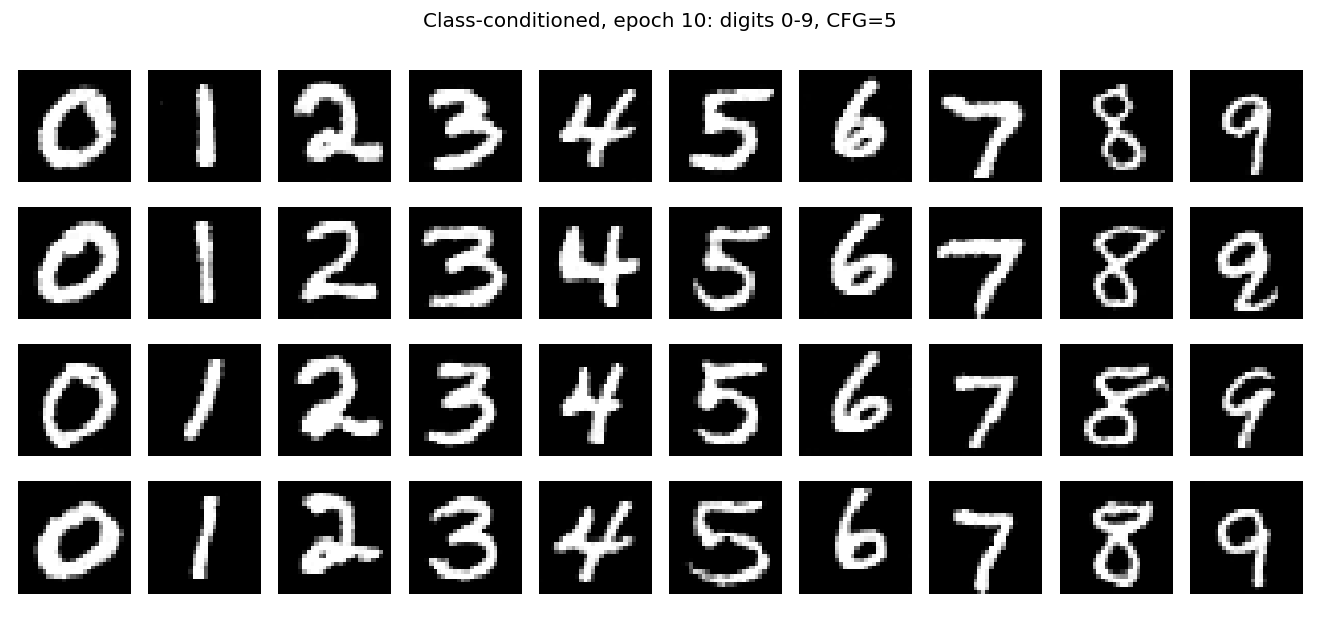
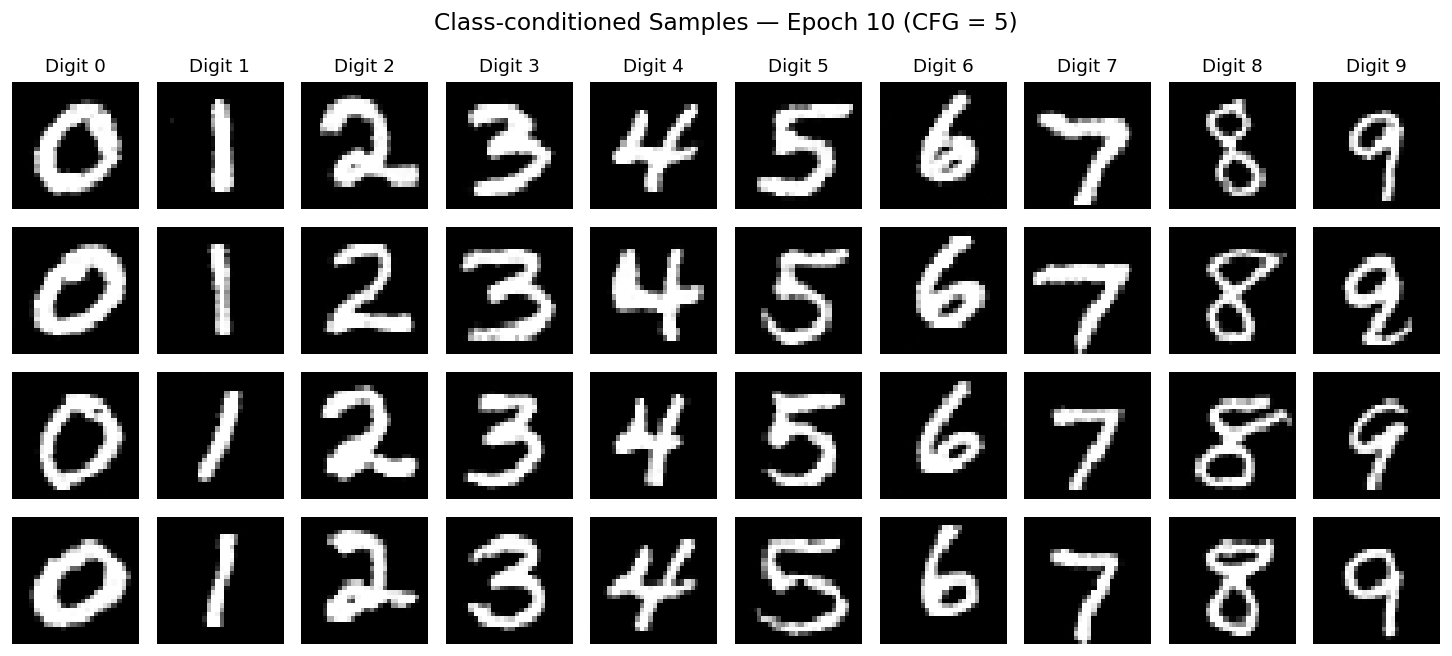
Label Part B sample figures and separate pure-noise epochs

diff --git a/website/scripts/extract_partb_results.py b/website/scripts/extract_partb_results.py
@@ -1,7 +1,7 @@
 """Export saved Part B figures and provenance without executing the notebook.
 
-Run with Python + Pillow + NumPy from the repository root. Keep the original
-plot in a lossless WebP; remove only titles/margins from sample-grid views.
+Run with Python + Pillow from the repository root. Export complete lossless
+figures so titles, row labels, and column labels remain visible.
 Part A's extraction script, figures, and manifest are independent.
 """
 import base64
@@ -11,7 +11,6 @@ import json
 from html import escape
 from pathlib import Path
 
-import numpy as np
 from PIL import Image
 
 ROOT = Path(__file__).resolve().parents[2]
@@ -22,23 +21,24 @@ FIGURES = ROOT / "website/_figures/partb"
 # Zero-based cell/output indices in the provided, executed notebook.
 # Titles and explicit PNG checks make a changed cell layout fail visibly.
 SPECS = [
-    ("noise-levels", 14, 0, "Noise levels by row", "Noise levels by row, top to bottom: σ = 0.0, 0.2, 0.4, 0.5, 0.6, 0.8, 1.0. Each column reuses the same test digit and noise tensor.", True),
-    ("denoise-loss", 21, 0, "loss_plot(train_losses", "Single-step denoising training MSE over all five epochs. Faint line: every optimizer step; solid line: 100-step moving average.", False),
-    ("denoise-epoch1", 21, 1, "denoise, epoch", "Epoch 1 · σ = 0.5 · Rows: clean test digits / noisy inputs / predictions.", True),
-    ("denoise-epoch5", 21, 2, "denoise, epoch", "Epoch 5 · σ = 0.5 · Rows: clean test digits / the same noisy inputs / predictions.", True),
-    ("denoise-ood", 23, 0, "sigma by column", "Same test digit at every noise level. Columns: σ = 0.0, 0.2, 0.4, 0.5, 0.6, 0.8, 1.0. Rows: noisy input / prediction.", True),
-    ("pure-noise-loss", 25, 0, "loss_plot(pure_losses", "Pure-noise denoiser training MSE over five epochs. Faint line: every optimizer step; solid line: 100-step moving average.", False),
-    ("pure-noise-samples", 25, 1, "Pure-noise predictions", "Pure-noise predictions · Top row: epoch 1; bottom row: epoch 5. Both checkpoints use the same ten noise inputs.", True),
-    ("time-loss", 35, 1, "loss_plot(time_losses", "Time-conditioned flow training MSE over ten epochs. Faint line: every optimizer step; solid line: 100-step moving average.", False),
-    ("time-epoch1", 37, 0, "Time-conditioned flow matching", "Epoch 1 · Time conditioning only · 40 samples · 50 Euler steps · Seed 180.", True),
-    ("time-epoch5", 37, 1, "Time-conditioned flow matching", "Epoch 5 · Time conditioning only · Same 40 initial noise samples and 50 Euler steps.", True),
-    ("time-epoch10", 37, 2, "Time-conditioned flow matching", "Epoch 10 · Time conditioning only · Same 40 initial noise samples and 50 Euler steps.", True),
-    ("class-loss", 44, 1, "loss_plot(class_losses", "Class-conditioned flow training MSE over ten epochs. Faint line: every optimizer step; solid line: 100-step moving average.", False),
-    ("no-scheduler-loss", 44, 3, "loss_plot(no_scheduler_losses", "Class-conditioned training without a scheduler · Constant Adam learning rate 0.003 · Ten epochs.", False),
-    ("class-epoch1", 46, 0, "Class-conditioned, epoch", "Epoch 1 · Columns: requested digits 0–9; four instances per digit · CFG γ = 5 · 300 Euler steps · Seed 180.", True),
-    ("class-epoch5", 46, 1, "Class-conditioned, epoch", "Epoch 5 · Columns: requested digits 0–9; four instances per digit · Same noise, CFG, and Euler steps.", True),
-    ("class-epoch10", 46, 2, "Class-conditioned, epoch", "Epoch 10 · Columns: requested digits 0–9; four instances per digit · Same noise, CFG, and Euler steps.", True),
-    ("no-scheduler-epoch10", 46, 3, "No scheduler, epoch 10", "No scheduler · Epoch 10 · Constant learning rate 0.003 · Columns: digits 0–9; four instances per digit · CFG γ = 5.", True),
+    ("noise-levels", 14, 0, "MNIST at Different Noise Levels", "Noise levels by row, top to bottom: σ = 0.0, 0.2, 0.4, 0.5, 0.6, 0.8, 1.0. Each column reuses the same test digit and noise tensor."),
+    ("denoise-loss", 21, 0, "loss_plot(train_losses", "Single-step denoising training MSE over all five epochs. Faint line: every optimizer step; solid line: 100-step moving average."),
+    ("denoise-epoch1", 21, 1, "Denoising — Epoch", "Epoch 1 · σ = 0.5 · Rows: clean test digits / noisy inputs / predictions."),
+    ("denoise-epoch5", 21, 2, "Denoising — Epoch", "Epoch 5 · σ = 0.5 · Rows: clean test digits / the same noisy inputs / predictions."),
+    ("denoise-ood", 23, 0, "Denoising at Different Noise Levels", "Same test digit at every noise level. Columns: σ = 0.0, 0.2, 0.4, 0.5, 0.6, 0.8, 1.0. Rows: noisy input / prediction."),
+    ("pure-noise-loss", 25, 0, "loss_plot(pure_losses", "Pure-noise denoiser training MSE over five epochs. Faint line: every optimizer step; solid line: 100-step moving average."),
+    ("pure-noise-epoch1", 25, 1, "Pure-noise Predictions", "Pure-noise predictions · Epoch 1 · Ten fixed noise inputs."),
+    ("pure-noise-epoch5", 25, 2, "Pure-noise Predictions", "Pure-noise predictions · Epoch 5 · The same ten noise inputs."),
+    ("time-loss", 35, 1, "loss_plot(time_losses", "Time-conditioned flow training MSE over ten epochs. Faint line: every optimizer step; solid line: 100-step moving average."),
+    ("time-epoch1", 37, 0, "Time-conditioned Samples", "Epoch 1 · Time conditioning only · 40 samples · 50 Euler steps · Seed 180."),
+    ("time-epoch5", 37, 1, "Time-conditioned Samples", "Epoch 5 · Time conditioning only · Same 40 initial noise samples and 50 Euler steps."),
+    ("time-epoch10", 37, 2, "Time-conditioned Samples", "Epoch 10 · Time conditioning only · Same 40 initial noise samples and 50 Euler steps."),
+    ("class-loss", 44, 1, "loss_plot(class_losses", "Class-conditioned flow training MSE over ten epochs. Faint line: every optimizer step; solid line: 100-step moving average."),
+    ("no-scheduler-loss", 44, 3, "loss_plot(no_scheduler_losses", "Class-conditioned training without a scheduler · Constant Adam learning rate 0.003 · Ten epochs."),
+    ("class-epoch1", 46, 0, "Class-conditioned Samples", "Epoch 1 · Columns: requested digits 0–9; four instances per digit · CFG γ = 5 · 300 Euler steps · Seed 180."),
+    ("class-epoch5", 46, 1, "Class-conditioned Samples", "Epoch 5 · Columns: requested digits 0–9; four instances per digit · Same noise, CFG, and Euler steps."),
+    ("class-epoch10", 46, 2, "Class-conditioned Samples", "Epoch 10 · Columns: requested digits 0–9; four instances per digit · Same noise, CFG, and Euler steps."),
+    ("no-scheduler-epoch10", 46, 3, "No Scheduler — Epoch 10", "No scheduler · Epoch 10 · Constant learning rate 0.003 · Columns: digits 0–9; four instances per digit · CFG γ = 5."),
 ]
 
 
@@ -47,13 +47,13 @@ def main():
     notebook = json.loads(notebook_bytes)
     # Validate every selection before changing any exported figures.
     selected = []
-    for name, cell, output, marker, caption, crop_grid in SPECS:
+    for name, cell, output, marker, caption in SPECS:
         source = "".join(notebook["cells"][cell]["source"])
         if marker not in source:
             raise ValueError(f"Notebook layout changed for {name}: cell {cell}")
         data = notebook["cells"][cell]["outputs"][output]["data"]["image/png"]
         image = Image.open(io.BytesIO(base64.b64decode("".join(data)))).convert("RGB")
-        selected.append((name, cell, output, caption, crop_grid, image))
+        selected.append((name, cell, output, caption, image))
 
     ASSETS.mkdir(parents=True, exist_ok=True)
     FIGURES.mkdir(parents=True, exist_ok=True)
@@ -63,29 +63,15 @@ def main():
         "indices": "zero-based cell and output indices",
         "assets": [],
     }
-    for name, cell, output, caption, crop_grid, image in selected:
+    for name, cell, output, caption, image in selected:
         original_name = f"{name}-original.webp"
         image.save(ASSETS / original_name, lossless=True)
-        crop = None
-        if crop_grid:
-            # Locate the black sample panels below the title. Keep the white
-            # gutters between panels while removing outer plot margins.
-            pixels = np.asarray(image)
-            dark = np.max(pixels, axis=2) < 32
-            ys = np.flatnonzero(dark.mean(axis=1) > 0.30)
-            if not len(ys):
-                raise ValueError(f"No sample-grid canvas found for {name}")
-            y0, y1 = int(ys[0]), int(ys[-1]) + 1
-            xs = np.flatnonzero(dark[y0:y1].mean(axis=0) > 0.30)
-            x0, x1 = int(xs[0]), int(xs[-1]) + 1
-            crop = [x0, y0, x1, y1]
-            image = image.crop(crop)
         display_name = f"{name}.webp"
         image.save(ASSETS / display_name, lossless=True)
         manifest["assets"].append({
             "file": display_name, "original": original_name,
             "cell": cell, "output": output, "size": list(image.size),
-            "crop": crop, "caption": caption,
+            "caption": caption,
         })
         width, height = image.size
         markup = (
